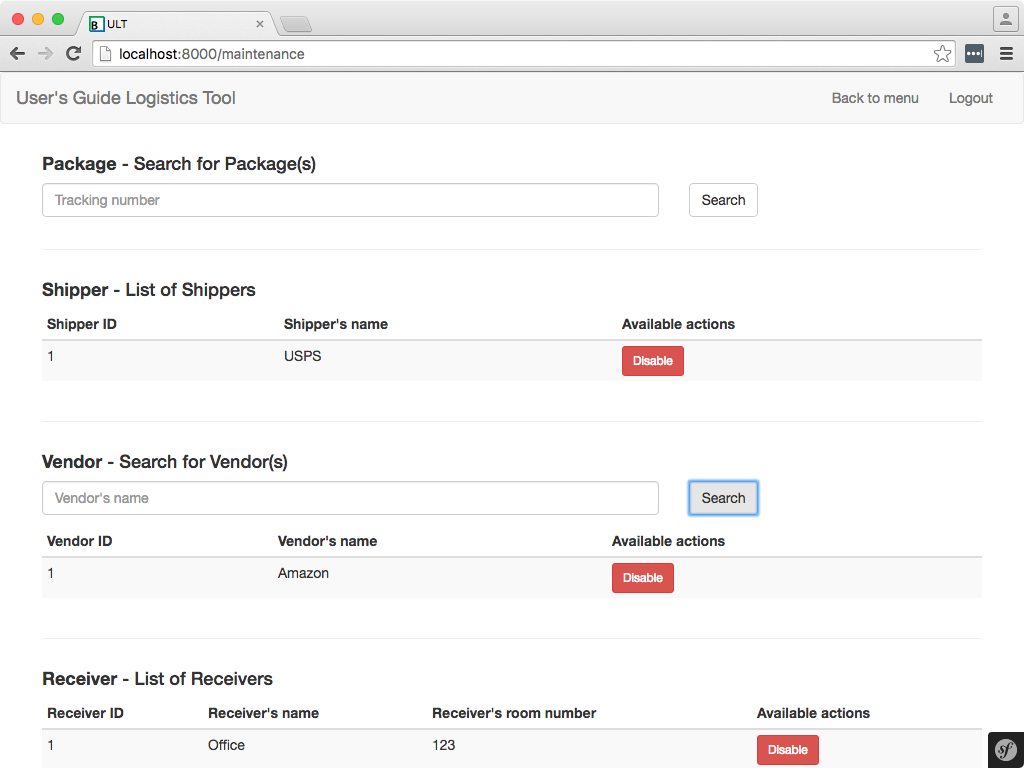
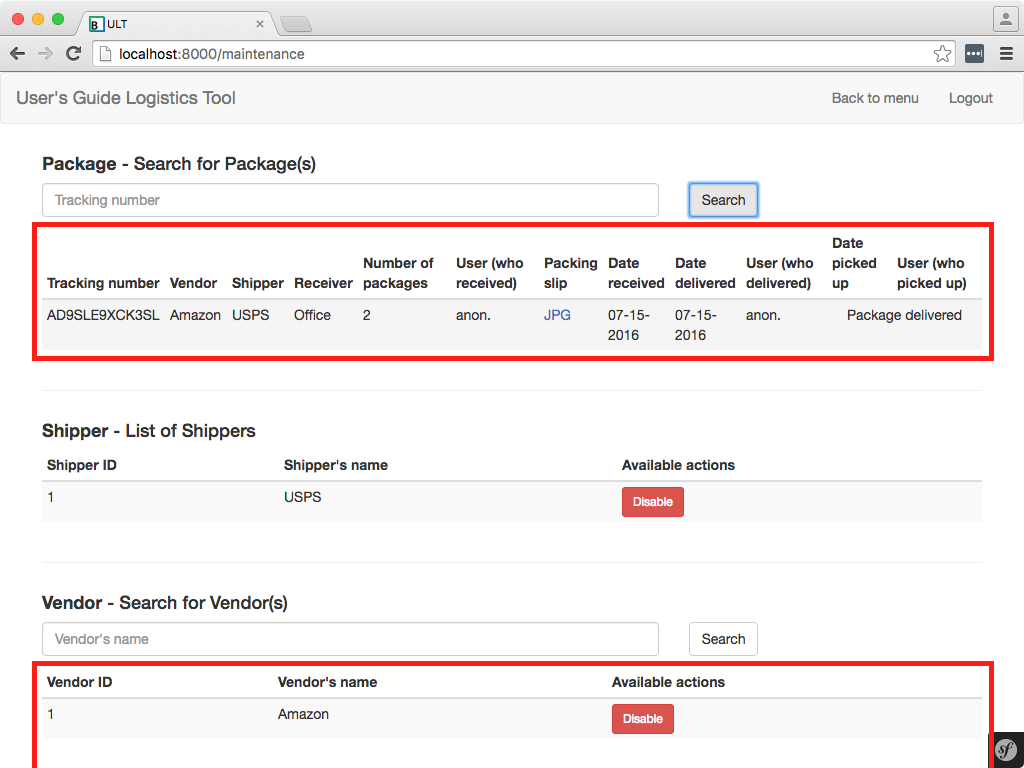
Added pictures to the User's guide for maintenance

diff --git a/docs/usersGuide.md b/docs/usersGuide.md
@@ -199,9 +199,14 @@ Entities cannot be deleted but Receivers, Shippers and Vendors can be disabled t
 #### Steps:
 
 ##### 1) Click on "Maintenance"
+![Maintenance 1](usersGuide/maintenance1.png)
 
 ##### 2) From here, you can click on "Disable" next to the entity to disable it or "Enable" to enable it
 
 ###### Note: If you know the tracking number of a Package and want information about it but don't know when it was received, you can search for it here
 ###### Note: The reason why Packages and Vendors have a searchable textbox instead of a list is because there tends to be more of it than Shippers or Receivers
- 
+![Maintenance 2](usersGuide/maintenance2.png)
+
+![Maintenance 3](usersGuide/maintenance3.png)
+
+![Maintenance 4](usersGuide/maintenance4.png)
